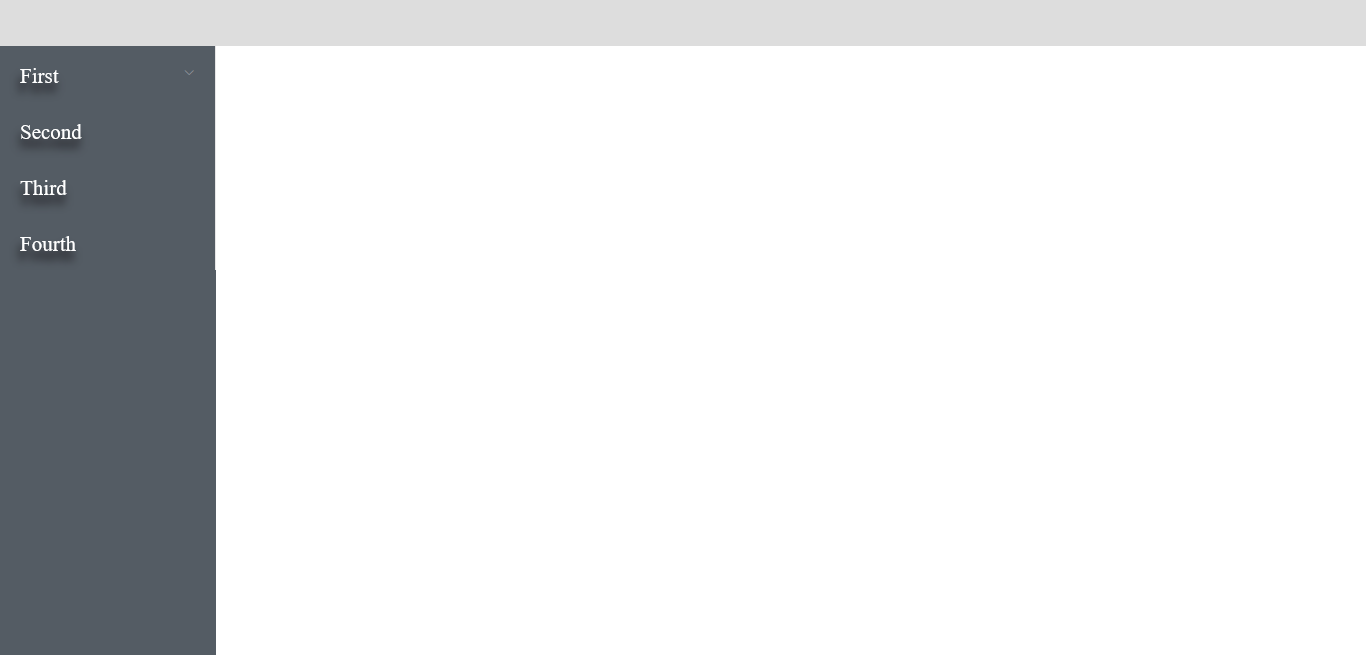
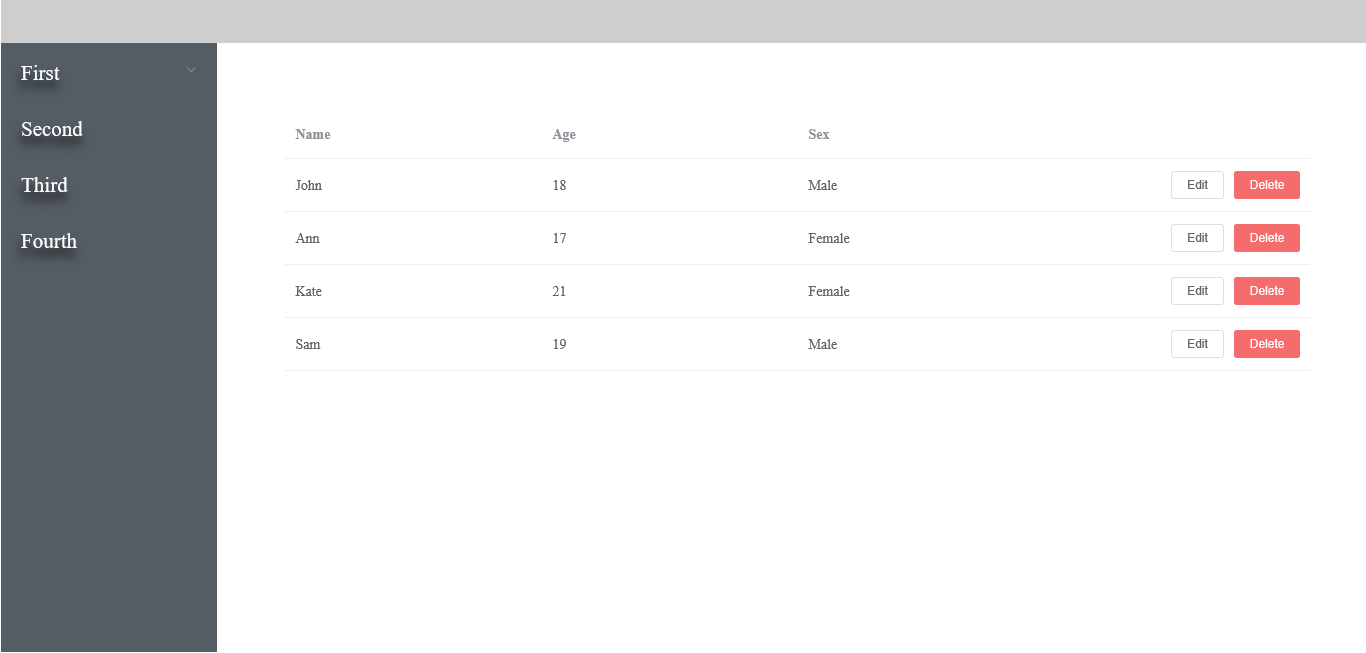
Added a table and new screens

diff --git a/src/components/Table.vue b/src/components/Table.vue
@@ -1,0 +1,83 @@
+<template>
+    <div id = "table">
+        <el-table
+            :data="Data">
+            <el-table-column
+                label = "Name"
+                prop = "name">
+            </el-table-column>
+            <el-table-column
+                label = "Age"
+                prop = "age">
+            </el-table-column>
+            <el-table-column
+                label = "Sex"
+                prop = "sex">
+            </el-table-column>
+            <el-table-column
+                align="right">
+                <el-button
+                    size="mini"
+                    @click="Edit()">Edit
+                </el-button>
+                <el-button
+                    size="mini"
+                    type="danger"
+                    @click="Delete()">Delete
+                </el-button>
+            </el-table-column>
+        </el-table>
+    </div>
+</template>
+
+<script>
+export default {
+  name: 'table',
+  data () {
+    return {
+      Data: [
+        {
+          name: 'John',
+          age: 18,
+          sex: 'Male'
+        },
+        {
+          name: 'Ann',
+          age: 17,
+          sex: 'Female'
+        },
+        {
+          name: 'Kate',
+          age: 21,
+          sex: 'Female'
+        },
+        {
+          name: 'Sam',
+          age: 19,
+          sex: 'Male'
+        }
+      ]
+    }
+  },
+  methods: {
+    Edit () {
+      alert('NOT YET!')
+    },
+    Delete () {
+      this.delete()
+    }
+  }
+}
+</script>
+
+<style scoped>
+    @import url("//unpkg.com/element-ui@2.12.0/lib/theme-chalk/index.css");
+
+    #table{
+        width: 75%;
+        height: 100%;
+        margin-top: 5%;
+        margin-left: 5%;
+        float: left;
+    }
+</style>

diff --git a/src/App.vue b/src/App.vue
@@ -2,17 +2,19 @@
   <div id="app">
     <Header/>
     <Menu/>
+    <Table/>
   </div>
 </template>
 
 <script>
 import Menu from '@/components/Menu.vue'
 import Header from '@/components/Header.vue'
+import Table from '@/components/Table.vue'
 
 export default {
   name: 'app',
   components: {
-    Menu, Header
+    Menu, Header, Table
   }
 }
 </script>
@@ -21,8 +23,10 @@ export default {
   body, html{
     margin: 0;
     padding: 0;
+    background: white;
   }
   #app{
-    height: auto;
+    height: 100%;
+    width: 100%;
   }
 </style>

diff --git a/src/components/Menu.vue b/src/components/Menu.vue
@@ -38,10 +38,16 @@
         background: #545c64;
         padding: 0;
         margin: 0;
-        float: left, top;
+        float: left;
+    }
+    el-menu{
+        width: 90vh;
     }
     span{
         text-shadow: -2px 9px 9px #151216;
         font-size: 1.5em;
+    }
+    ul{
+        border-right: 0px;
     }
 </style>

diff --git a/src/components/Header.vue b/src/components/Header.vue
@@ -7,6 +7,6 @@
     #header{
         height: 7vh;
         width: 100%;
-        background:  #DDD;
+        background:  #cecece;
     }
 </style>
